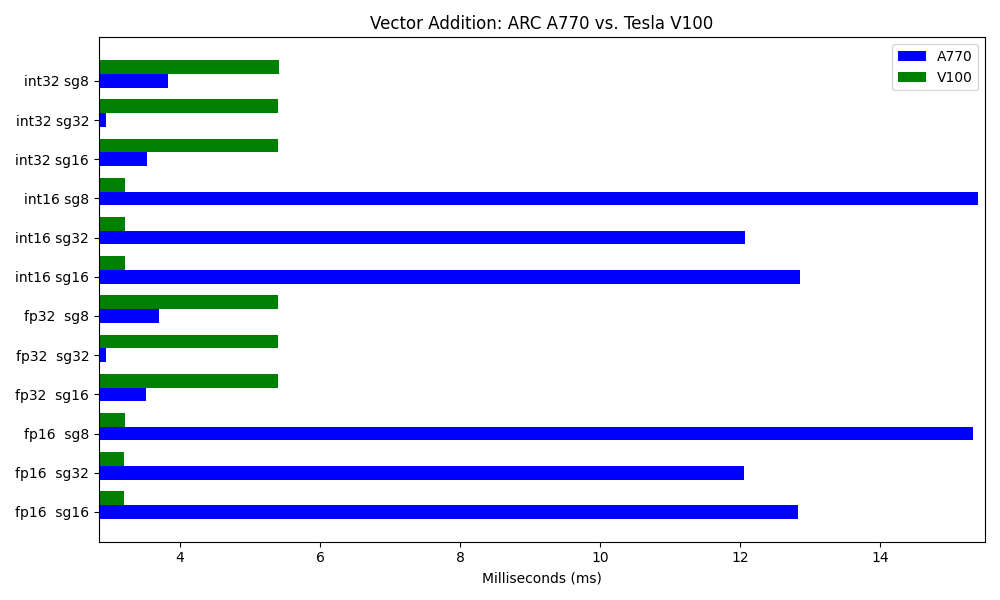
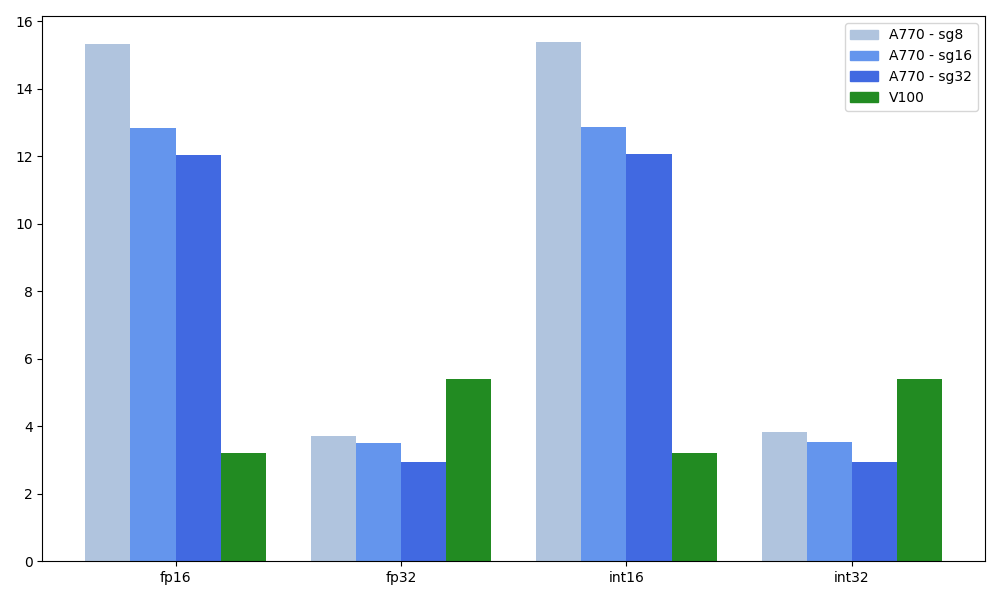
modified graph

diff --git a/scripts/plots/vec_add_cmp.py b/scripts/plots/vec_add_cmp.py
@@ -1,5 +1,9 @@
+from matplotlib.patches import Patch
 from plot_utils import check_double_input
 import matplotlib.pyplot as plt
+import matplotlib.colors as mcolors
+import pandas as pd
+import numpy as np
 from scipy.stats import hmean
 
 data_gpu1, data_gpu2, out_file = check_double_input()
@@ -25,31 +29,46 @@ data_gpu2 = data_gpu2.replace(to_replace).groupby('bench-name')['kernel-time-mea
 data_gpu1['kernel-time-mean'] *= 1000
 data_gpu2['kernel-time-mean'] *= 1000
 
-index1 = data_gpu1['bench-name']
-index2 = data_gpu1['bench-name']
-time1 = data_gpu1['kernel-time-mean']
-time2 = data_gpu2['kernel-time-mean']
+df = pd.DataFrame()
+df['type'] = data_gpu1['bench-name'].apply(lambda x: x.split()[0])
+df['sg'] = data_gpu1['bench-name'].apply(lambda x: x.split()[1])
+df['A770'] = data_gpu1['kernel-time-mean']
 
-ind = list(range(len(index1)))
+v100_values = data_gpu2['kernel-time-mean'].values
+v100_mapping = dict(zip(data_gpu2['bench-name'].apply(lambda x: x.split()[0]), v100_values))
+df['V100'] = df['type'].map(v100_mapping)
 
-# Larghezza delle barre
-width = 0.35
+types = df['type'].unique()
+bar_width = 1
 
-# Crea il grafico a barre
 fig, ax = plt.subplots(figsize=(10, 6))
-bar1 = ax.barh(ind, time1, height=width, color='b', label='A770')
-bar2 = ax.barh([i + width for i in ind], time2, height=width, color='g', label='V100')
 
-# Aggiungi etichette, titolo e legenda
-ax.set_xlabel('Milliseconds (ms)')
-ax.set_title('Vector Addition: ARC A770 vs. Tesla V100')
-ax.set_yticks(ind)
-ax.set_yticklabels(data_gpu1['bench-name'])
-ax.legend()
+group_width = bar_width * len(types)
+num_bars = len(types)
 
-min_value = min(min(time1), min(time2))
-max_value = max(max(time1), max(time2))
-ax.set_xlim(min_value - 0.1, max_value + 0.1)
+colors = ['lightsteelblue', 'cornflowerblue', 'royalblue', 'forestgreen']
+
+rects = []
+for i, t in enumerate(types):
+    a770_vals = df.loc[df['type'] == t, 'A770'].values
+    a770_sg_vals = df.loc[df['type'] == t, 'sg'].values
+    a770_vals[0], a770_vals[1], a770_vals[2] = a770_vals[2], a770_vals[0], a770_vals[1]
+
+    v100_val = df.loc[df['type'] == t, 'V100'].values[0] # all the same]
+    vals = np.append(a770_vals, v100_val)
+    
+    offset = i * (len(vals) + 1)
+    rect = ax.bar(np.arange(len(vals)) + offset, vals, bar_width, color=colors)
+    rects.append(rect)
+
+
+tick_positions = np.arange(num_bars) * (len(vals) + 1) + (num_bars - 1) * bar_width / 2
+ax.set_xticks(tick_positions)
+ax.set_xticklabels(types)
+
+legend_patches = [Patch(color=color) for color in colors]
+ax.legend(legend_patches, ['A770 - sg8', 'A770 - sg16', 'A770 - sg32', 'V100'])
+
 
 # Mostra il grafico
 plt.tight_layout()
